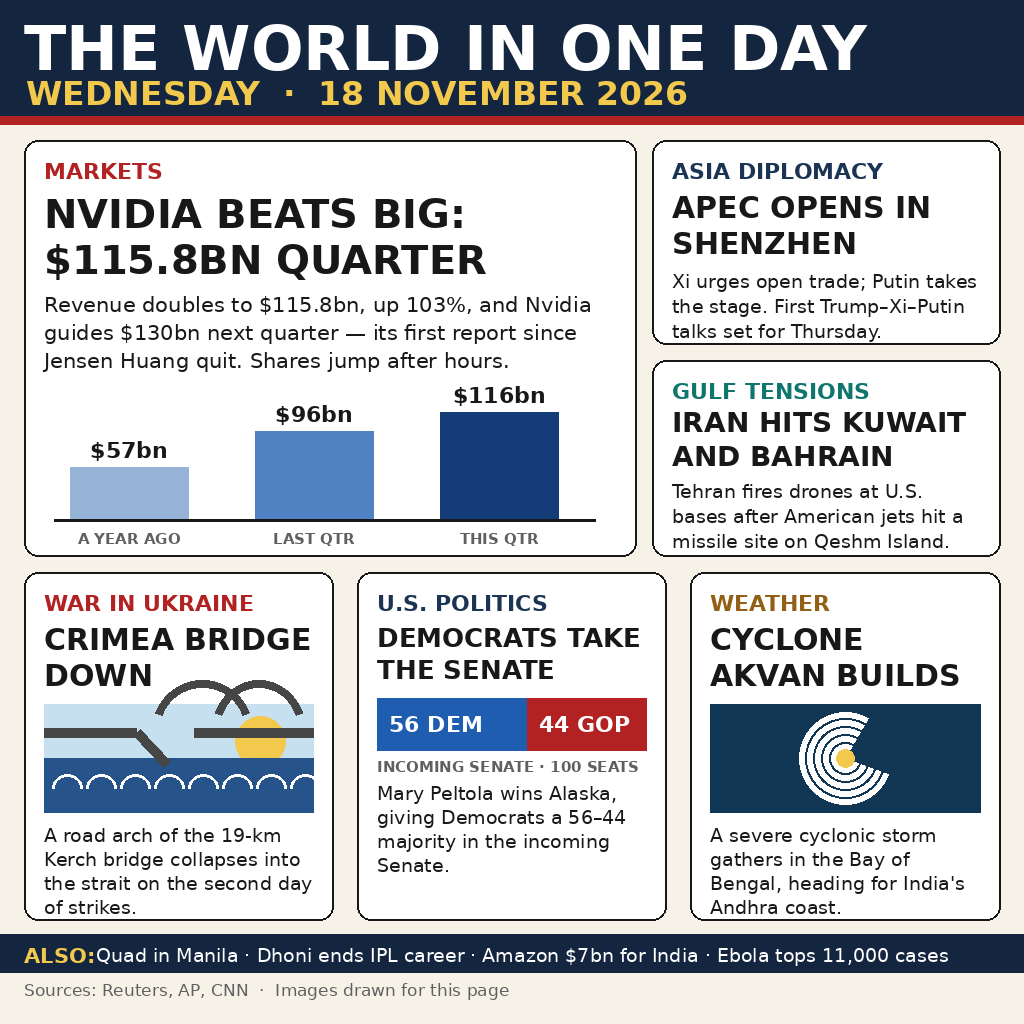
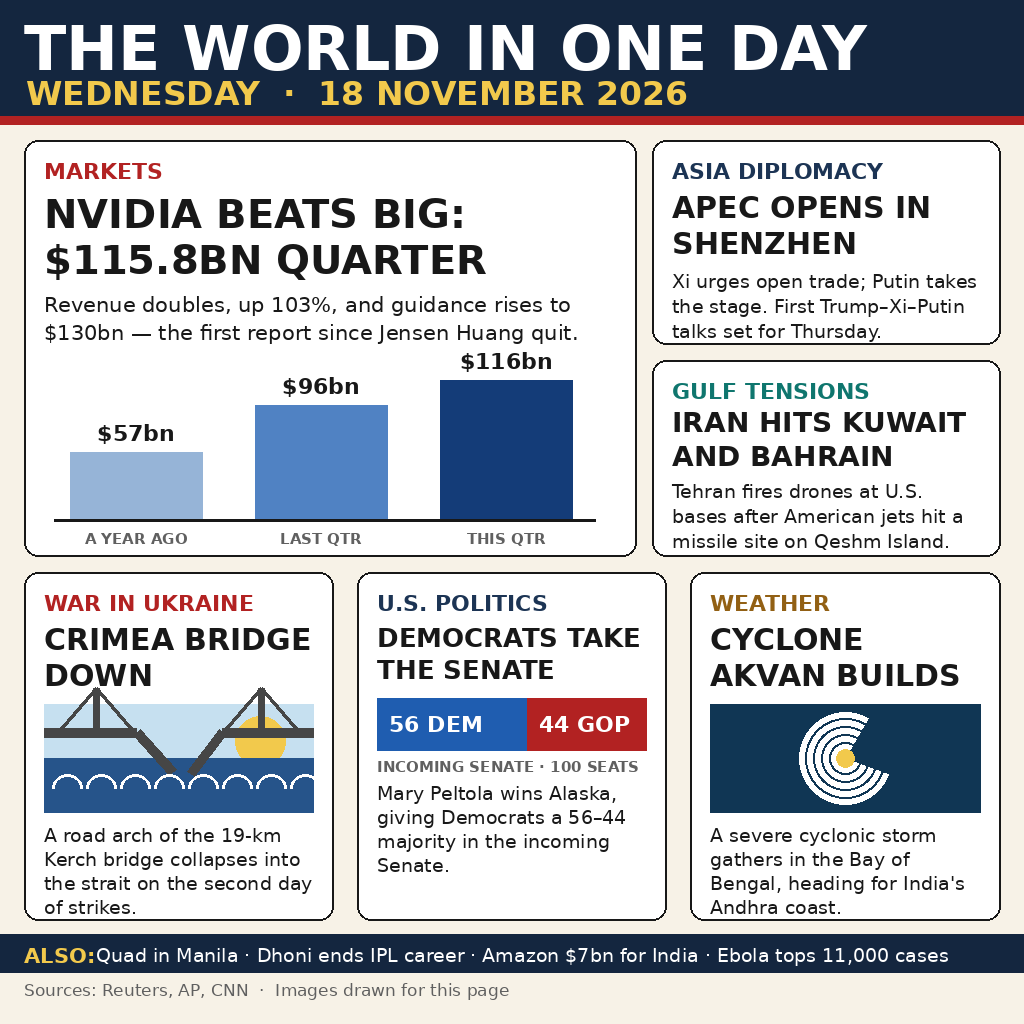
news-image-20261118 v3: bigger Nvidia chart, redrawn broken bridge

diff --git a/gen.py b/gen.py
@@ -94,14 +94,14 @@ def headline(draw, x, y, text, width, size=30, max_lines=2, fill=INK):
 def bars(draw, x0, base, values, labels, colors):
     top = max(values)
     for i, value in enumerate(values):
-        height = int(108 * value / top)
+        height = int(140 * value / top)
         x = x0 + i * 185
-        draw.rectangle([x, base - height, x + 118, base], fill=colors[i])
+        draw.rectangle([x, base - height, x + 132, base], fill=colors[i])
         tag = "$%dbn" % value
         tw = draw.textlength(tag, font=F_NUM)
-        draw.text((x + (118 - tw) / 2, base - height - 30), tag, font=F_NUM, fill=INK)
+        draw.text((x + (132 - tw) / 2, base - height - 32), tag, font=F_NUM, fill=INK)
         lw = draw.textlength(labels[i], font=F_LAB)
-        draw.text((x + (118 - lw) / 2, base + 10), labels[i], font=F_LAB, fill=GREY)
+        draw.text((x + (132 - lw) / 2, base + 10), labels[i], font=F_LAB, fill=GREY)
     draw.line([x0 - 16, base, x0 + 3 * 185 - 30, base], fill=INK, width=3)
 
 
@@ -110,12 +110,19 @@ def bridge(draw, box):
     draw.rectangle(box, fill=SKY)
     draw.ellipse([x1 - 78, y0 + 12, x1 - 28, y0 + 62], fill=GOLD)
     mid = (y0 + y1) // 2
+    deck = mid - 26
     draw.rectangle([x0, mid, x1, y1], fill=SEA)
-    draw.line([x0, mid - 26, x0 + 92, mid - 26], fill=(70, 70, 70), width=10)
-    draw.line([x0 + 150, mid - 26, x1, mid - 26], fill=(70, 70, 70), width=10)
-    draw.line([x0 + 92, mid - 26, x0 + 122, mid + 6], fill=(70, 70, 70), width=10)
-    draw.arc([x0 + 108, mid - 78, x0 + 208, mid + 22], start=200, end=340, fill=(70, 70, 70), width=8)
-    draw.arc([x0 + 168, mid - 78, x1 - 8, mid + 22], start=200, end=340, fill=(70, 70, 70), width=8)
+    steel = (70, 70, 70)
+    # Two pylons still standing, with straight stay cables to the deck.
+    for px in (x0 + 52, x1 - 52):
+        draw.line([px, deck - 44, px, deck], fill=steel, width=7)
+        draw.line([px, deck - 44, px - 38, deck], fill=steel, width=3)
+        draw.line([px, deck - 44, px + 38, deck], fill=steel, width=3)
+    # Intact deck on both sides; the middle span has fallen into the strait.
+    draw.line([x0, deck, x0 + 92, deck], fill=steel, width=10)
+    draw.line([x0 + 178, deck, x1, deck], fill=steel, width=10)
+    draw.line([x0 + 92, deck, x0 + 128, mid + 14], fill=steel, width=10)
+    draw.line([x0 + 178, deck, x0 + 146, mid + 16], fill=steel, width=10)
     for cx in range(x0 + 8, x1 - 8, 34):
         draw.arc([cx, mid + 16, cx + 30, mid + 44], start=180, end=360, fill=(255, 255, 255), width=3)
 
@@ -149,7 +156,7 @@ def draw_page():
     card(draw, (24, 140, 636, 556))
     draw.text((44, 158), "MARKETS", font=F_KICK, fill=RED)
     y = headline(draw, 44, 190, "NVIDIA BEATS BIG: $115.8BN QUARTER", 572, size=40, max_lines=2)
-    y = para(draw, 44, y + 10, "Revenue doubles to $115.8bn, up 103%, and Nvidia guides $130bn next quarter \u2014 its first report since Jensen Huang quit. Shares jump after hours.", F_BODY, 572, 28)
+    y = para(draw, 44, y + 10, "Revenue doubles, up 103%, and guidance rises to $130bn \u2014 the first report since Jensen Huang quit.", F_BODY, 572, 28)
     bars(draw, 70, 520, [57, 96, 116], ["A YEAR AGO", "LAST QTR", "THIS QTR"], [(150, 180, 215), (80, 130, 195), (20, 60, 120)])
 
     # Right top: APEC opens in Shenzhen.
